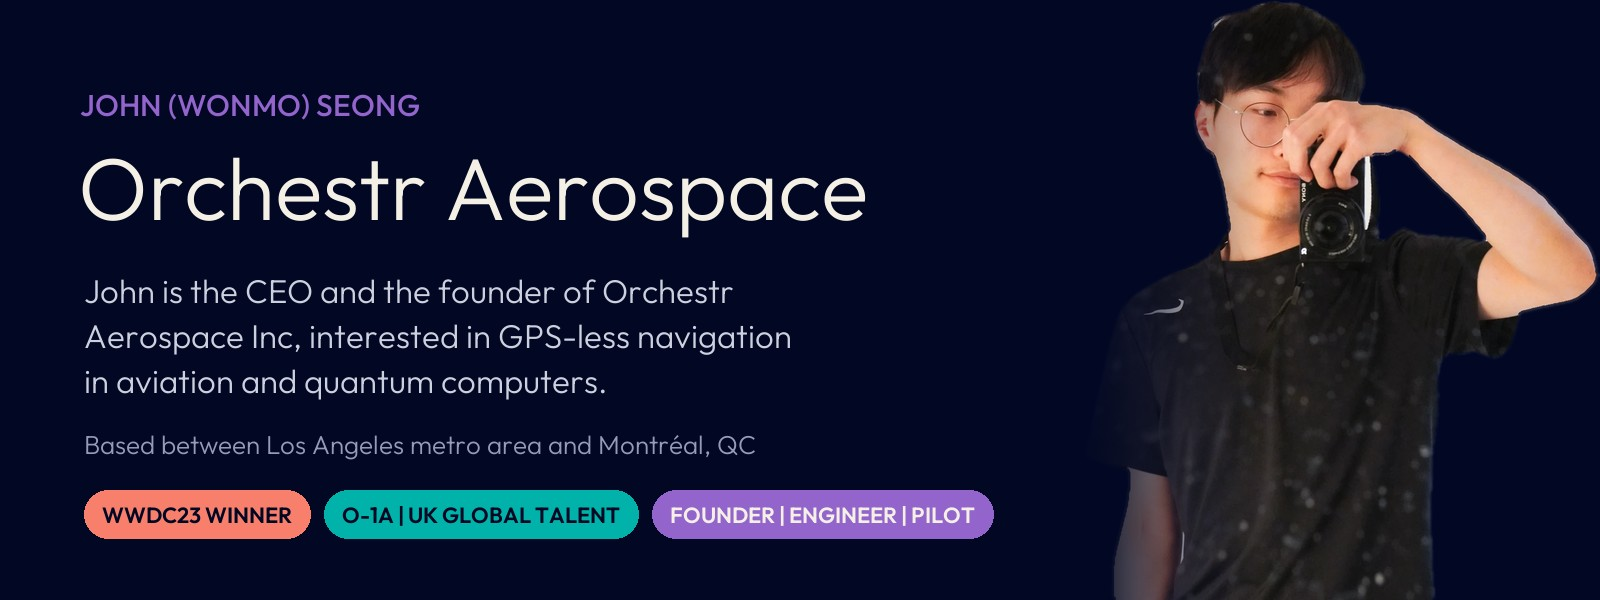
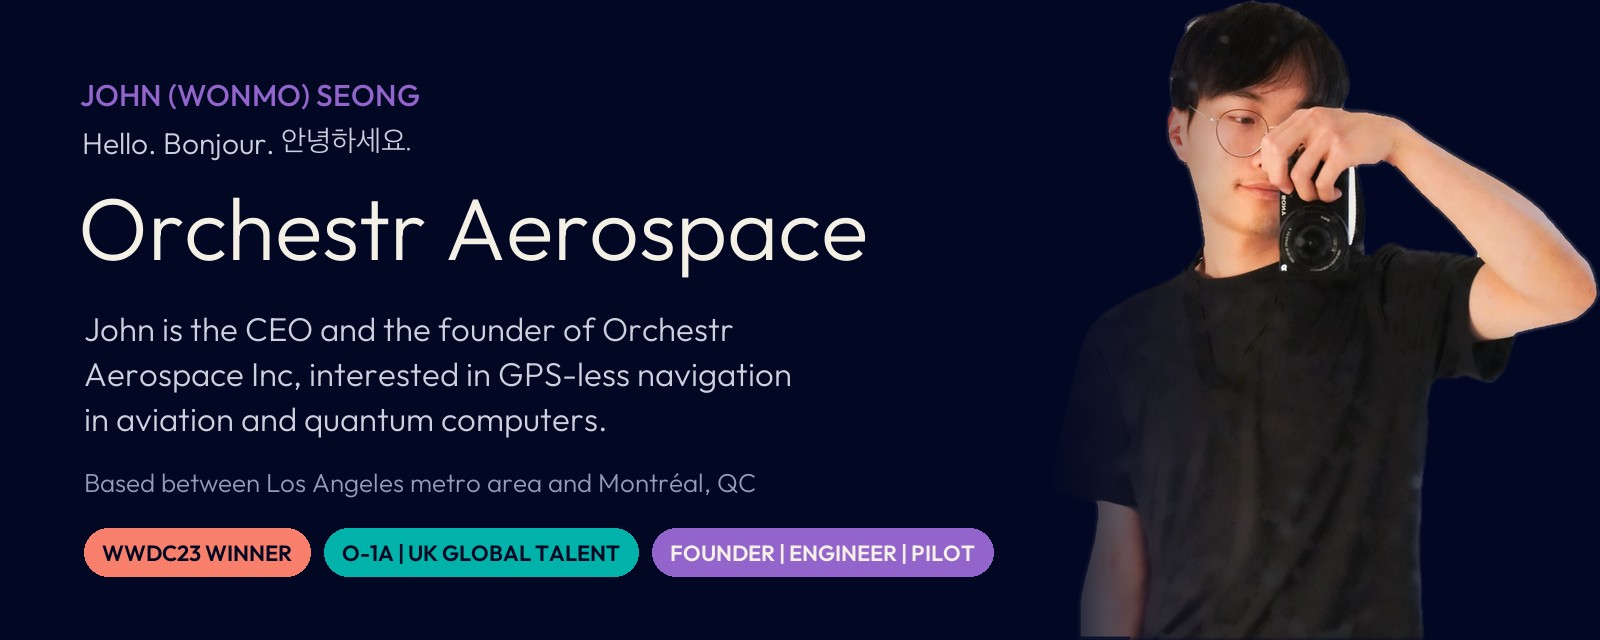
README: trilingual greeting, clean portrait cut-out, Things John built along the way
The banner gets "Hello. Bonjour. 안녕하세요." under the name (Outfit with
Apple SD Gothic Neo Light for the Korean), the portrait is re-cut with a
clean subject mask and the specks on the shirt are removed, and the
projects header reads Things John built along the way.

diff --git a/README.md b/README.md
@@ -101,7 +101,7 @@ The artificial horizon, terrain map and on-device POH copilot in one unit: an NV
 
 <br>
 
-<img src="resources/gallery/sec-projects.jpg" alt="Things he built along the way" width="100%">
+<img src="resources/gallery/sec-projects.jpg" alt="Things John built along the way" width="100%">
 
 <table>
   <tr>
